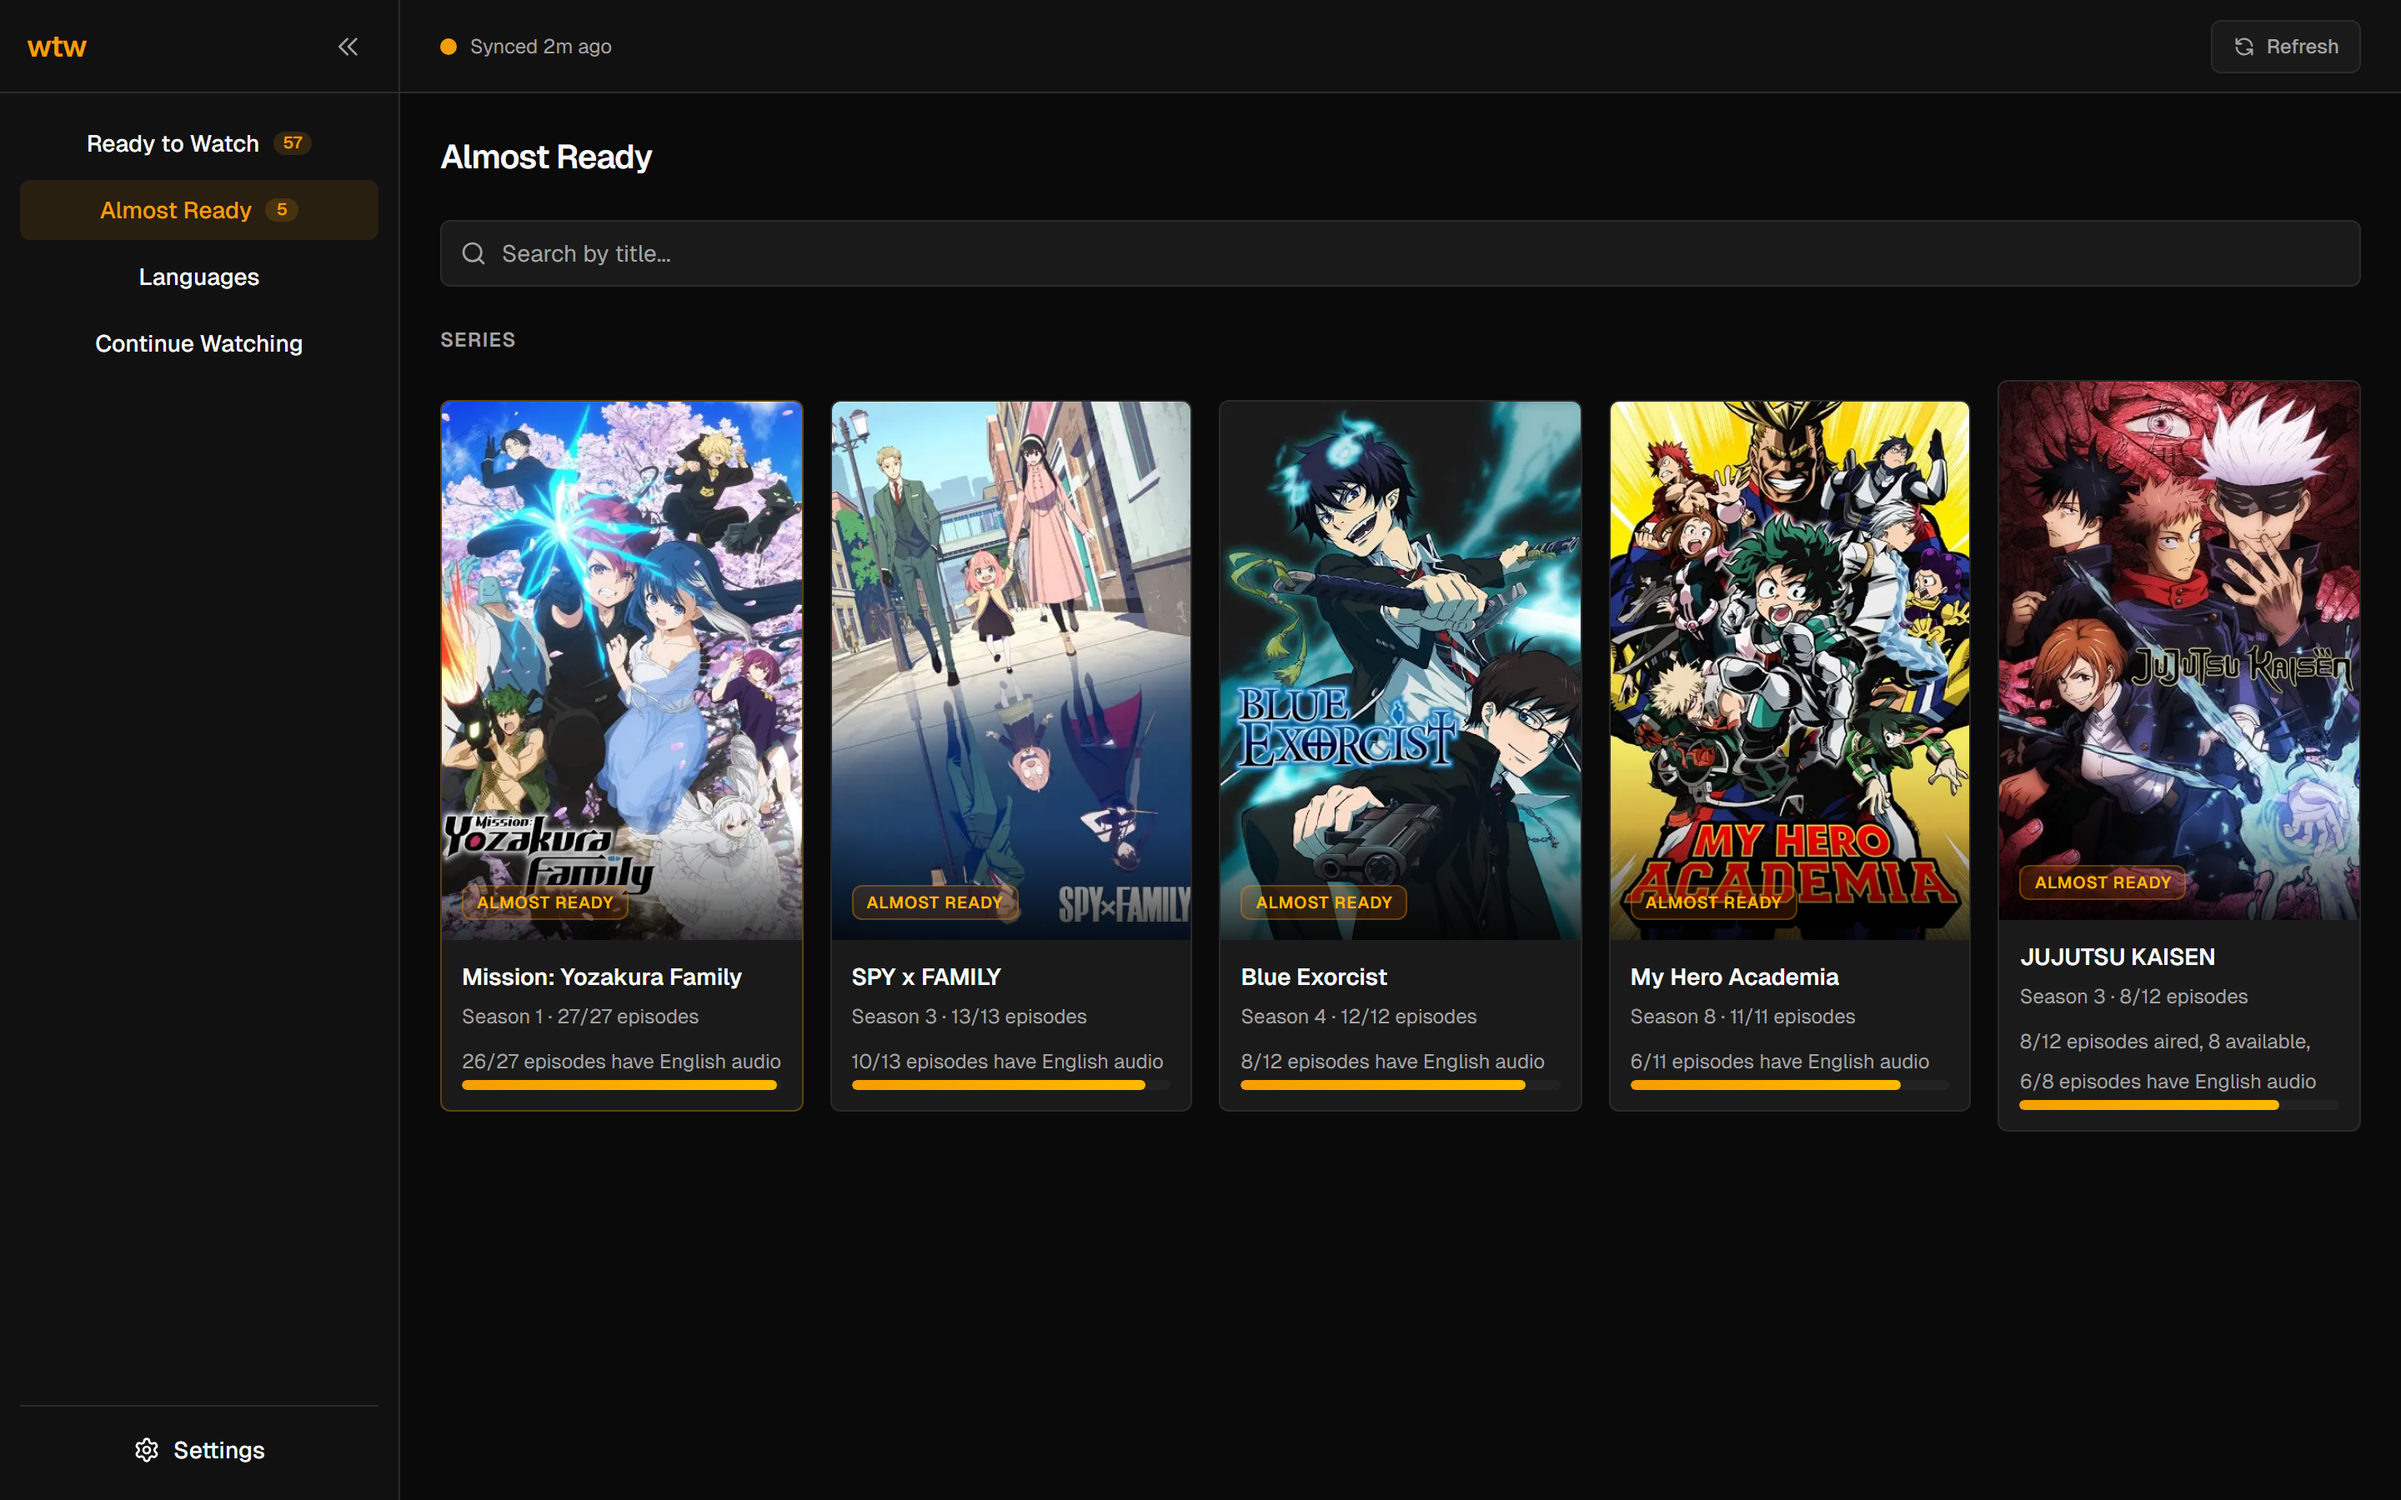
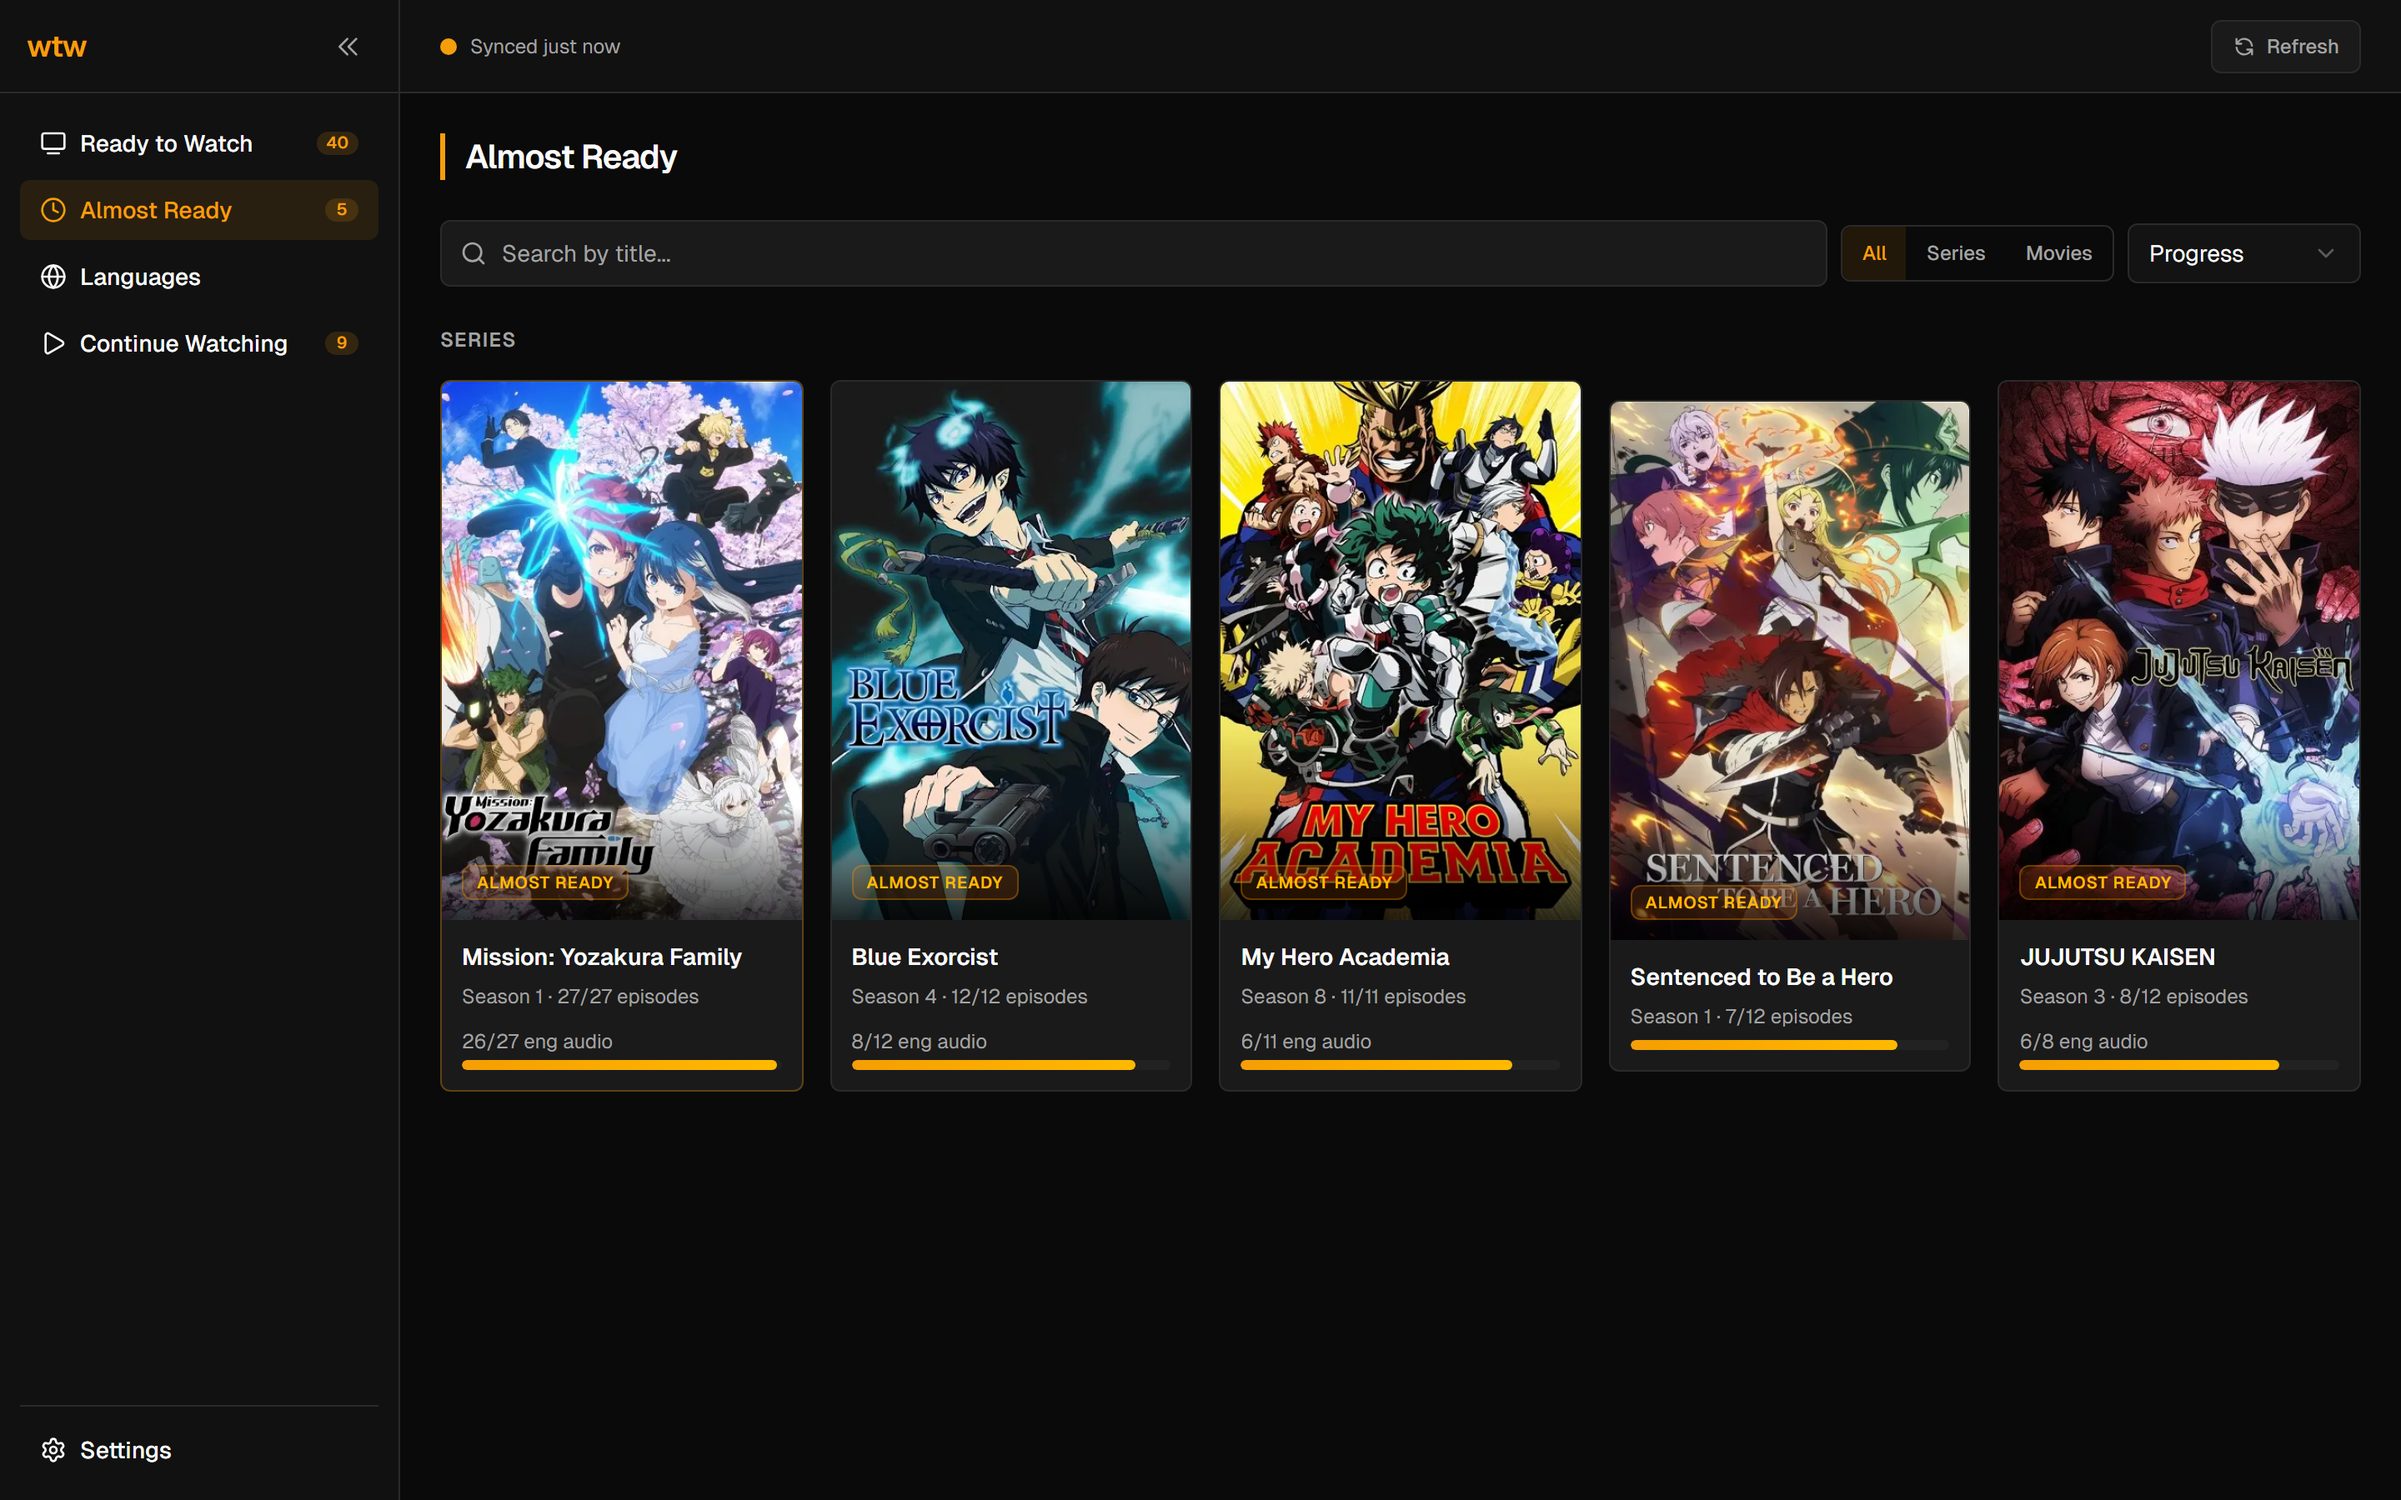
docs: refresh README for new-user experience and update screenshots

diff --git a/README.md b/README.md
@@ -14,25 +14,22 @@
 
 ---
 
-wtw applies configurable readiness rules — like waiting for a complete season or a preferred audio language — so you only see media that's actually ready. It syncs data from your services on a schedule, evaluates each season and movie, and presents the results in a clean dashboard.
+wtw syncs your media services on a schedule and evaluates each season and movie against configurable readiness rules — like requiring a complete season, a preferred audio language, or full monitoring in Sonarr — so you only see media that's actually ready to watch.
 
 ![Ready to Watch](docs/screenshots/ready-to-watch.png)
 
 ## Features
 
-- **Ready to Watch** — series seasons and movies that pass all your readiness checks
+- **Ready to Watch** — series and movies that pass all your readiness checks
 - **Almost Ready** — items close to meeting criteria with progress indicators
 - **Continue Watching** — in-progress items based on Jellyfin watch history
 - **Language Overview** — per-episode audio/subtitle language breakdown grid
-- **Detail Panel** — click any card to see rule results, episode status, and languages
-- **Settings UI** — configure rules, language targets, overrides, and webhooks from the browser
+- **Detail Panel** — rule results, episode status, and language info per item
+- **Search, Filter & Sort** — find items by title, filter by type, sort by date or name
+- **Setup Wizard** — guided first-run experience to connect your services from the browser
+- **Settings UI** — configure rules, language targets, per-series overrides, and webhooks
 - **Discord & Webhook Notifications** — get notified when media becomes ready
-- **Dismiss Items** — hide items you don't want to see, undo anytime from Settings
-- **Mobile-First** — responsive layout with bottom tab bar, swipe-to-dismiss detail panel
-- **Configurable Rules** — complete season, language availability, fully monitored, with per-series overrides
-- **Graceful Degradation** — if Sonarr or Radarr goes down, last known data is retained
-- **Read-Only** — never mutates data on any connected service
-- **SQLite Persistence** — settings, dismissed items, and notification history survive container restarts
+- **Mobile-First** — responsive layout with bottom tab bar and swipe gestures
 
 <details>
 <summary>More screenshots</summary>
@@ -53,9 +50,35 @@ wtw applies configurable readiness rules — like waiting for a complete season 
 
 ## Quick Start
 
-### Docker Compose (recommended)
-
 Create a `docker-compose.yml`:
+
+```yaml
+services:
+  wtw:
+    image: ghcr.io/1-felix/wtw:latest
+    container_name: wtw
+    restart: unless-stopped
+    ports:
+      - "3000:3000"
+    volumes:
+      - wtw-config:/config
+
+volumes:
+  wtw-config:
+```
+
+```bash
+docker compose up -d
+```
+
+Open [http://localhost:3000](http://localhost:3000) — the setup wizard will walk you through connecting Jellyfin, Sonarr, and Radarr. The first sync takes about 30 seconds.
+
+> The Docker image includes a built-in healthcheck on `/api/health` for orchestrators like Portainer or Kubernetes.
+
+<details>
+<summary>Pre-configure with environment variables</summary>
+
+If you prefer to skip the setup wizard, pass your service credentials as environment variables. These take priority over any values configured through the UI.
 
 ```yaml
 services:
@@ -70,132 +93,45 @@ services:
       JELLYFIN_API_KEY: "your-jellyfin-api-key"
       JELLYFIN_USER_ID: "your-jellyfin-user-id"
 
-      # Optional: enable Sonarr integration
+      # Optional: Sonarr integration
       # SONARR_URL: "http://sonarr:8989"
       # SONARR_API_KEY: "your-sonarr-api-key"
 
-      # Optional: enable Radarr integration
+      # Optional: Radarr integration
       # RADARR_URL: "http://radarr:7878"
       # RADARR_API_KEY: "your-radarr-api-key"
+
+      # Optional: sync interval in minutes (default: 15)
+      # SYNC_INTERVAL_MINUTES: 15
     volumes:
-      # Recommended: persist settings, notifications, and dismissed items
       - wtw-config:/config
 
 volumes:
   wtw-config:
 ```
 
-```bash
-docker compose up -d
-```
+Jellyfin is the only required service. Sonarr and Radarr are optional — when configured, they provide richer metadata that powers additional readiness rules (complete season, fully monitored).
 
-Open [http://localhost:3000](http://localhost:3000). The first sync takes ~30 seconds.
+</details>
 
-### Docker Run
+<details>
+<summary>Docker Run</summary>
 
 ```bash
 docker run -d \
   --name wtw \
   -p 3000:3000 \
-  -e JELLYFIN_URL="http://jellyfin:8096" \
-  -e JELLYFIN_API_KEY="your-key" \
-  -e JELLYFIN_USER_ID="your-user-id" \
   -v wtw-config:/config \
   ghcr.io/1-felix/wtw:latest
 ```
 
-## Configuration
-
-### Environment Variables
-
-| Variable | Required | Default | Description |
-|---|---|---|---|
-| `JELLYFIN_URL` | Yes | — | Jellyfin server URL |
-| `JELLYFIN_API_KEY` | Yes | — | Jellyfin API key |
-| `JELLYFIN_USER_ID` | Yes | — | Jellyfin user ID (see [Finding your User ID](#finding-your-jellyfin-user-id)) |
-| `SONARR_URL` | No | — | Sonarr server URL |
-| `SONARR_API_KEY` | No | — | Sonarr API key |
-| `RADARR_URL` | No | — | Radarr server URL |
-| `RADARR_API_KEY` | No | — | Radarr API key |
-| `SYNC_INTERVAL_MINUTES` | No | `15` | How often to re-sync data from services |
-
-Jellyfin is the only required integration. Sonarr and Radarr are optional — when configured, they provide richer metadata (monitored status, language profiles) that powers additional readiness rules.
-
-### Finding your Jellyfin User ID
-
-wtw needs your Jellyfin user ID to read watch status (played, in-progress, etc.). To find it, run:
-
-```bash
-curl "http://<jellyfin-url>/Users?api_key=<your-api-key>"
-```
-
-This returns a list of users. Find your username and copy the `Id` field — it looks like `5e3236d98db649668657e2248e975db5`.
-
-### Settings UI
-
-All rule configuration can be managed from the **Settings** page in the dashboard:
-
-- **Rules** — toggle complete season, language availability, fully monitored
-- **Language** — set target audio language, composition mode (AND/OR), almost-ready threshold
-- **Overrides** — per-series rule overrides (disable rules, change language target)
-- **Notifications** — add Discord or generic webhooks, configure filters (ready / almost-ready)
-- **Dismissed Items** — view and un-dismiss hidden items
-- **About** — service connection status, sync interval, database info
-
-### rules.json (legacy)
-
-You can also configure rules via a JSON file mounted at `/config/rules.json`. On first startup, wtw automatically imports the file into its database. After that, changes are managed through the Settings UI.
-
-<details>
-<summary>rules.json reference</summary>
-
-```json
-{
-  "rules": {
-    "completeSeason": true,
-    "languageAvailable": true,
-    "fullyMonitored": true
-  },
-  "languageTarget": "English",
-  "almostReadyThreshold": 0.8,
-  "compositionMode": "and",
-  "overrides": {
-    "One Piece": {
-      "disabledRules": ["complete-season"],
-      "languageTarget": "Japanese"
-    }
-  }
-}
-```
-
-| Key | Type | Default | Description |
-|---|---|---|---|
-| `rules.completeSeason` | `boolean` | `true` | Require all aired episodes to have files |
-| `rules.languageAvailable` | `boolean` | `true` | Require target audio language on all episodes |
-| `rules.fullyMonitored` | `boolean` | `true` | Require all episodes to be monitored in Sonarr |
-| `languageTarget` | `string` | `"English"` | Target audio language (name or ISO code) |
-| `almostReadyThreshold` | `number` | `0.8` | Progress threshold (0–1) for "almost ready" |
-| `compositionMode` | `"and" \| "or"` | `"and"` | Whether all rules must pass or just one |
-| `overrides` | `object` | `{}` | Per-series rule overrides (keyed by title or TVDB ID) |
-
 </details>
 
-## API
+## Configuration
 
-| Endpoint | Method | Description |
-|---|---|---|
-| `/api/health` | GET | Service status, sync state, version info |
-| `/api/media` | GET | All media with readiness verdicts |
-| `/api/media/continue` | GET | In-progress items with playback position |
-| `/api/media/[id]/languages` | GET | Per-episode language breakdown for a series |
-| `/api/media/[id]/dismiss` | POST/DELETE | Dismiss or un-dismiss a media item |
-| `/api/settings` | GET/PUT | Read or update rule configuration |
-| `/api/webhooks` | GET/POST | List or create notification webhooks |
-| `/api/webhooks/[id]` | PUT/DELETE | Update or delete a webhook |
-| `/api/webhooks/[id]/test` | POST | Send a test notification |
-| `/api/dismissed` | GET | List all dismissed items |
-| `/api/sync` | POST | Trigger a manual sync |
-| `/api/images/[itemId]` | GET | Proxy poster images from Jellyfin |
+All configuration is managed from the **Settings** page in the dashboard — rules, language targets, per-series overrides, notification webhooks, and service connections.
+
+Settings, dismissed items, and notification history are persisted in a SQLite database at `/config/wtw.db` and survive container restarts.
 
 ## Development
 
@@ -228,46 +164,12 @@ pnpm test          # single run
 pnpm test:watch    # watch mode
 ```
 
-### Type Checking
-
-```bash
-pnpm exec tsc --noEmit
-```
-
 ### Docker Build
 
 ```bash
 docker build -t wtw .
-docker run -p 3000:3000 -e JELLYFIN_URL="..." -e JELLYFIN_API_KEY="..." wtw
+docker run -p 3000:3000 -v wtw-config:/config wtw
 ```
-
-## Architecture
-
-```
-┌──────────────────────────────────────────────────────┐
-│                     Dashboard UI                      │
-│  Ready │ Almost Ready │ Continue │ Languages │ Settings│
-├──────────────────────────────────────────────────────┤
-│                  Readiness Engine                      │
-│  complete-season │ language-available │ fully-monitored │
-├──────────────────────────────────────────────────────┤
-│          In-Memory Cache + Sync Orchestrator           │
-├────────────┬──────────────┬───────────────────────────┤
-│  Jellyfin  │    Sonarr     │          Radarr           │
-│  Client    │    Client     │          Client           │
-├────────────┴──────────────┴───────────────────────────┤
-│     SQLite (settings, webhooks, dismissed, notif log)  │
-└───────────────────────────────────────────────────────┘
-```
-
-## Tech Stack
-
-- [Next.js](https://nextjs.org/) 16 (App Router) with TypeScript
-- [Tailwind CSS](https://tailwindcss.com/) v4 + [shadcn/ui](https://ui.shadcn.com/)
-- [better-sqlite3](https://github.com/WiseLibs/better-sqlite3) for embedded persistence
-- [Zod](https://zod.dev/) v4 for runtime validation
-- [Vitest](https://vitest.dev/) for testing
-- Docker (multi-stage build, Node.js 22 Alpine)
 
 ## License
 
